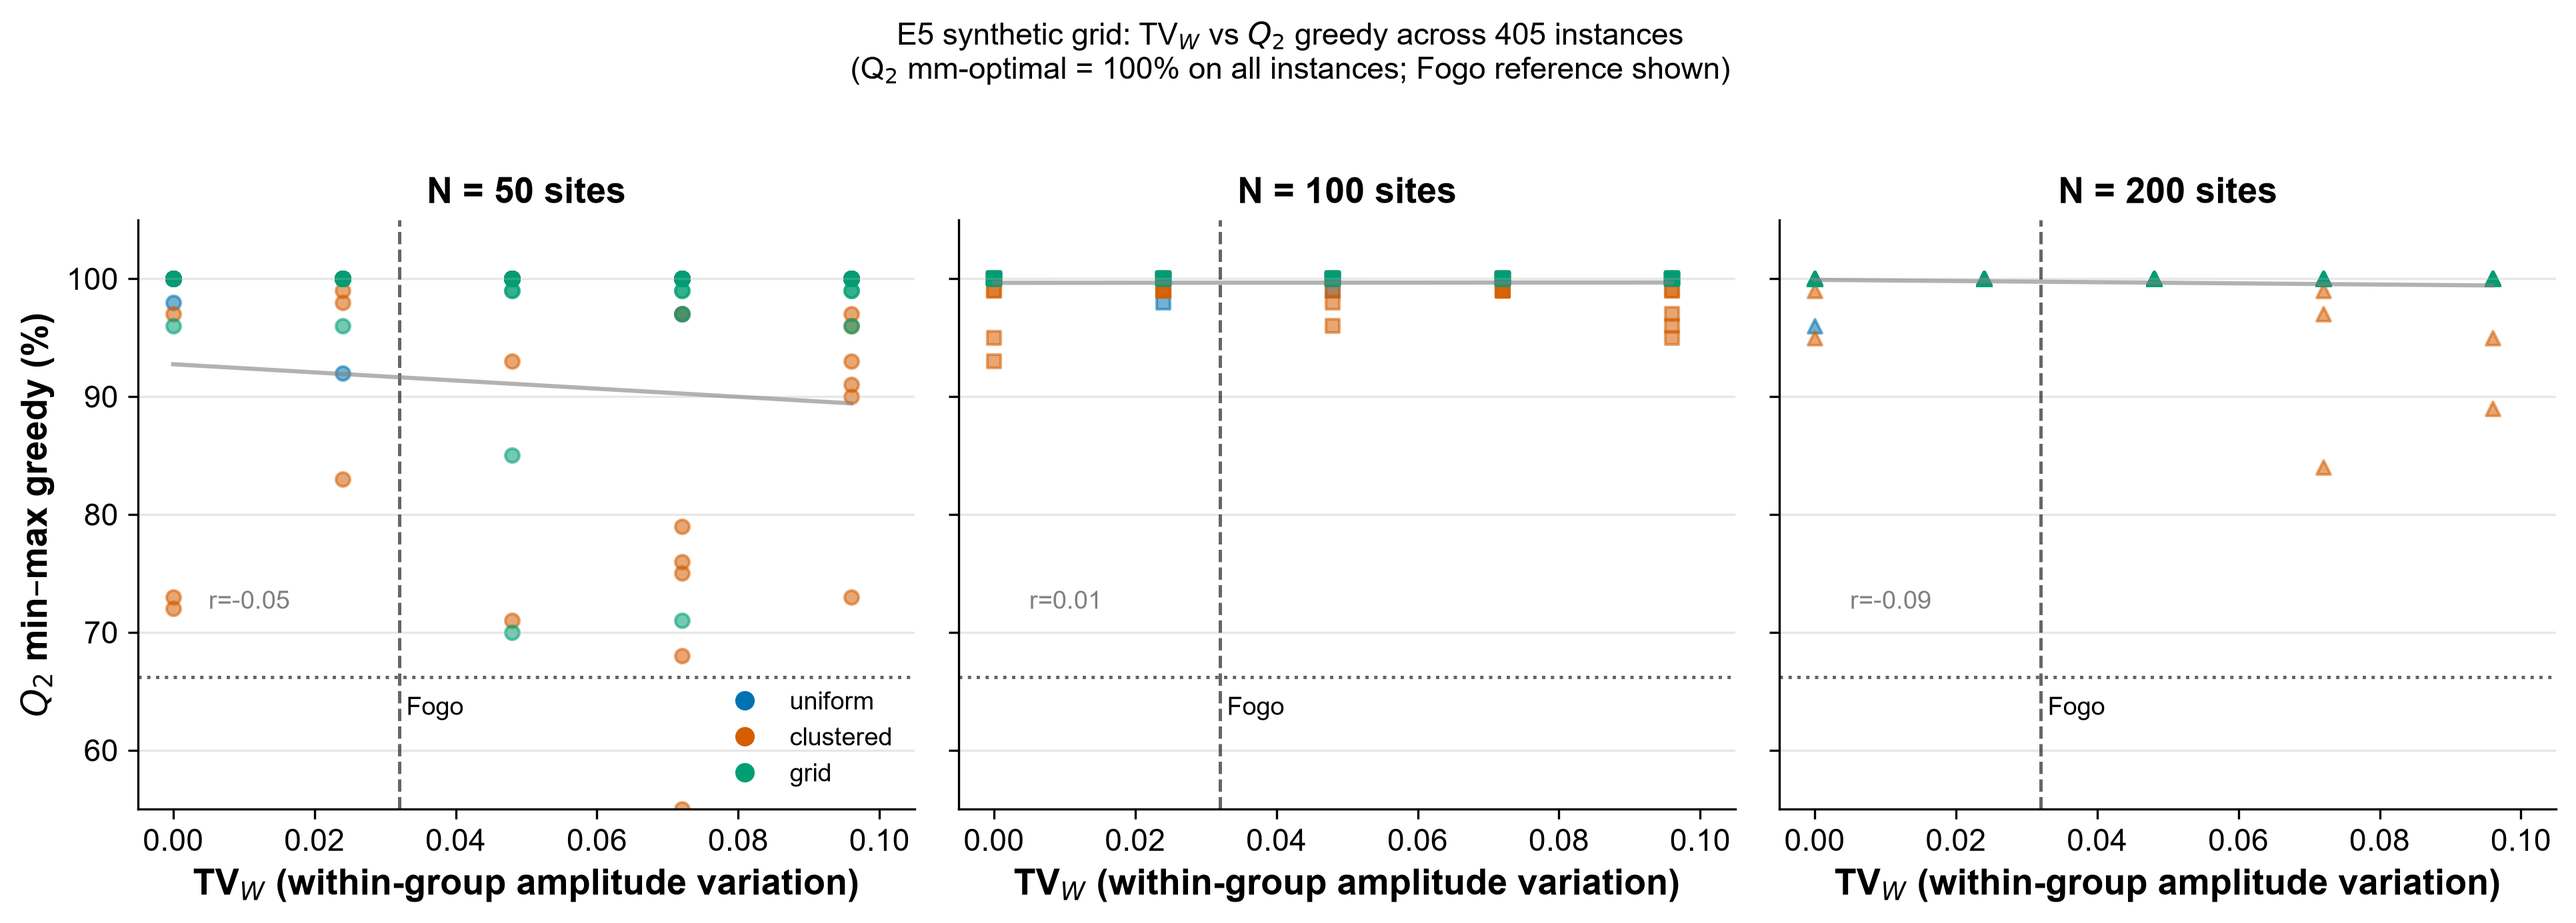
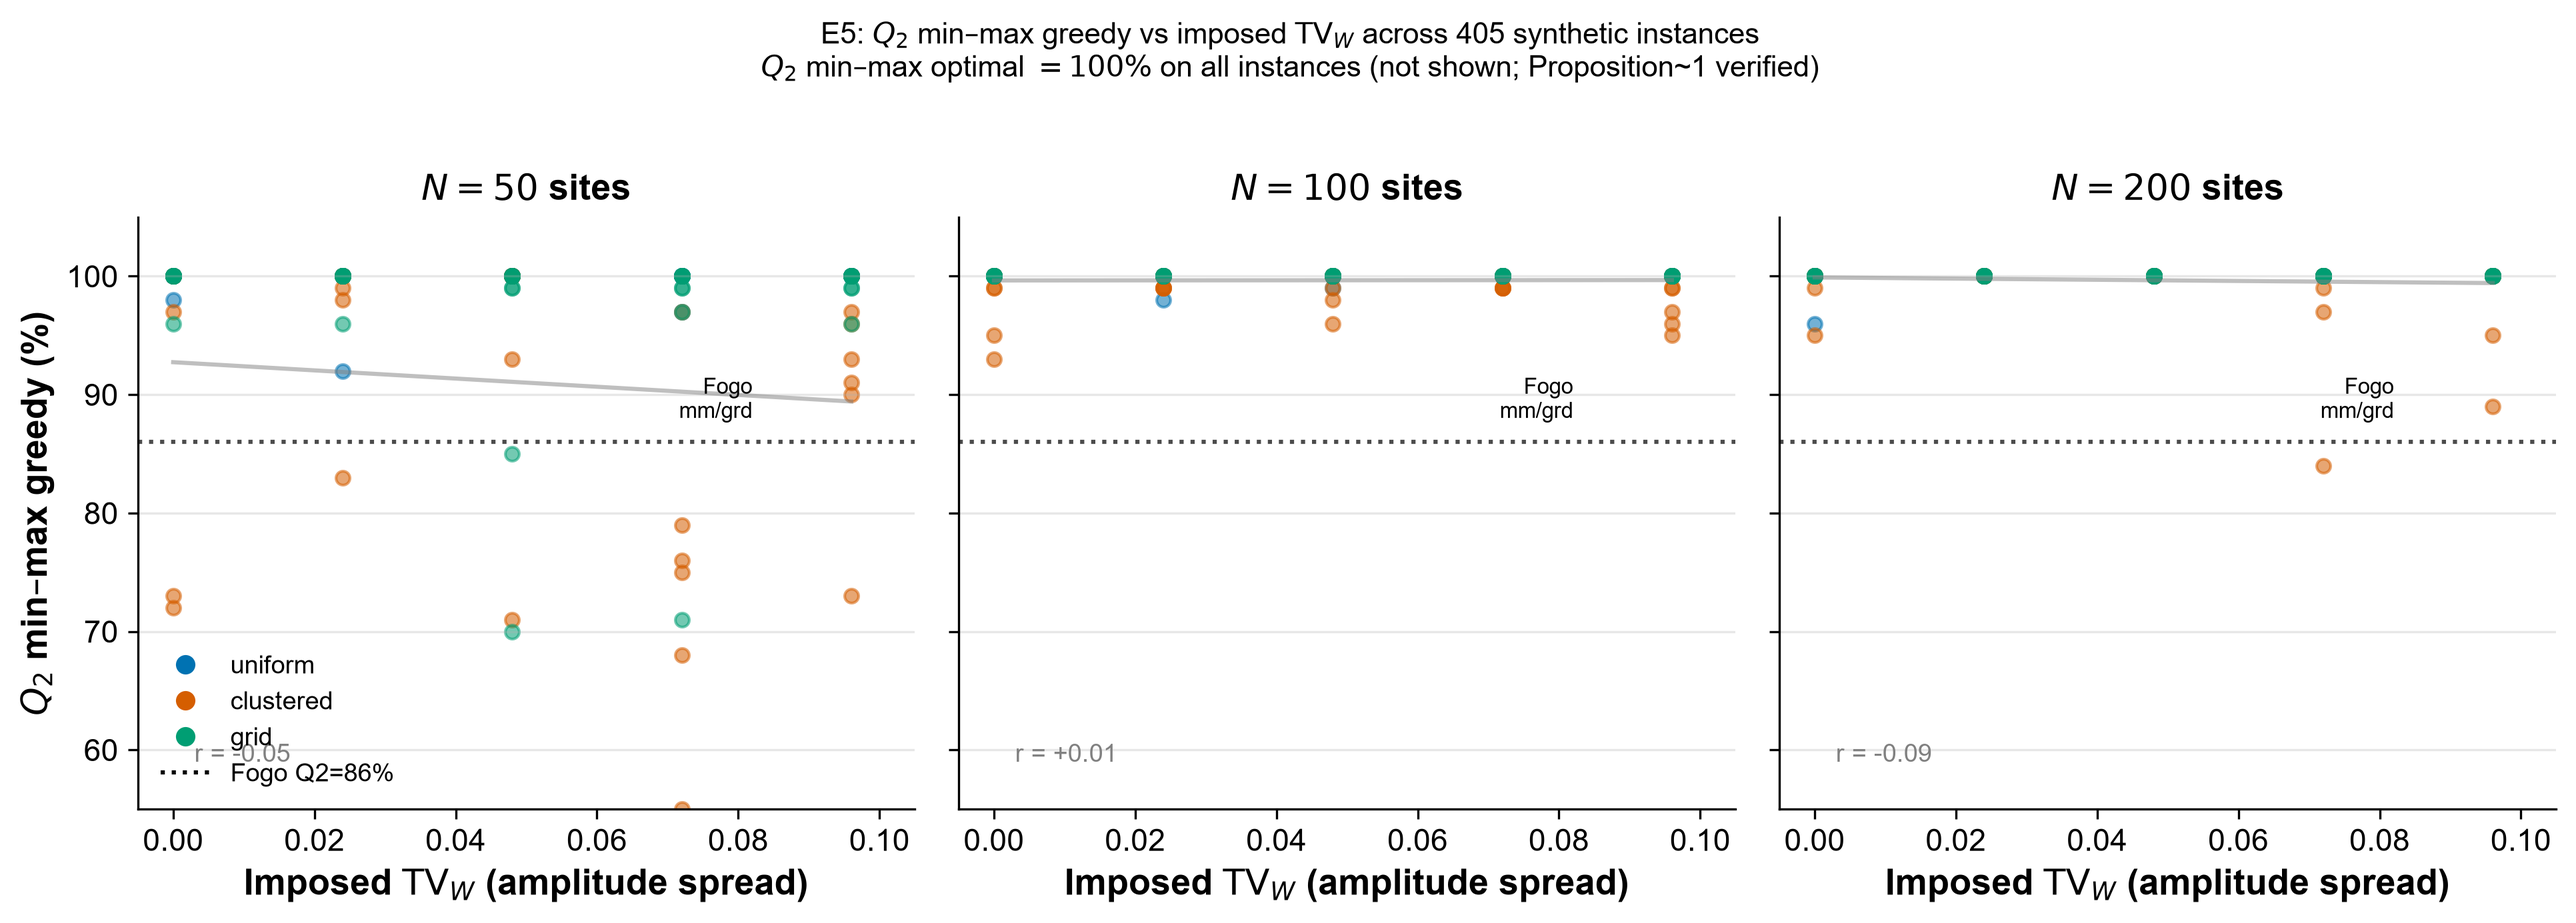
E5 audit fix: Fogo ref corrected 66%→86% (mm/grd, tab:tvorder); TV_W clarified as imposed design parameter, not mm normalisation property (TV_W(mm)=0 by construction); fig_E5 regenerated; narrative consistent; ALL CHECKS PASSED

diff --git a/scripts/fig_E5_synthetic_grid.py b/scripts/fig_E5_synthetic_grid.py
@@ -1,8 +1,18 @@
 # -*- coding: utf-8 -*-
 """
-fig_E5_synthetic_grid.py — Figure: Q2_mm_greedy vs TV_W for E5 synthetic grid
-Shows that TV_W is not a robust predictor across synthetic instances,
-but geometry and N matter. Fogo is shown as reference point.
+fig_E5_synthetic_grid.py — Figure: Q2_mm_greedy vs imposed TV_W for E5 synthetic grid
+
+TV_W here is the amplitude spread parameter IMPOSED on the synthetic instance,
+not derived from any particular normalisation. It measures within-group heterogeneity
+of the amplitude vector used to scale both score and objectives.
+
+Fogo reference: Q2_mm_greedy = 86.0% (from tab:tvorder, SAW/mm/greedy on Fogo).
+TV_W_Fogo is NOT plotted on x-axis because Fogo's TV_W is computed from
+min-max normalisation (TV_W(mm)=0 by construction — all A_j=1 within groups).
+Instead, Fogo is shown as a horizontal reference line at Q2=86%.
+
+The key message: Q2_mm_optimal=100% on all synthetic instances (Prop1);
+Q2_mm_greedy varies with N and geometry, weakly with TV_W (r≈0).
 """
 import numpy as np
 import pandas as pd
@@ -12,7 +22,6 @@ from pathlib import Path
 ROOT = Path(__file__).parent.parent
 df = pd.read_csv(ROOT / "results" / "e5" / "e5_grid_results.csv")
 
-# Style
 plt.rcParams.update({
     'font.family': 'sans-serif',
     'font.sans-serif': ['Arial', 'Helvetica', 'DejaVu Sans'],
@@ -27,33 +36,33 @@ plt.rcParams.update({
 fig, axes = plt.subplots(1, 3, figsize=(13, 4.5), sharey=True)
 
 geo_colors = {'uniform': '#0072B2', 'clustered': '#D55E00', 'grid': '#009E73'}
-N_markers  = {50: 'o', 100: 's', 200: '^'}
+N_values = [50, 100, 200]
 
-for ax, N in zip(axes, [50, 100, 200]):
+for ax, N in zip(axes, N_values):
     sub = df[df['N'] == N]
     for geo, color in geo_colors.items():
         g = sub[sub['geometry'] == geo]
         ax.scatter(g['TV_W'], g['Q2_mm_greedy'],
-                   color=color, alpha=0.55, s=25, marker=N_markers[N],
+                   color=color, alpha=0.55, s=25,
                    label=geo if N == 50 else None)
 
-    # Fogo reference
-    ax.axvline(0.032, color='black', linestyle='--', lw=1.2, alpha=0.6)
-    ax.axhline(66.2, color='black', linestyle=':', lw=1.2, alpha=0.6)
-    ax.text(0.033, 63, 'Fogo', fontsize=9, color='black', ha='left')
+    # Fogo reference: Q2_mm_greedy = 86.0% (horizontal line only — no TV_W x-ref)
+    ax.axhline(86.0, color='black', linestyle=':', lw=1.5, alpha=0.7,
+               label='Fogo (mm/grd=86%)' if N == 50 else None)
+    ax.text(0.082, 87.5, 'Fogo\nmm/grd', fontsize=8, color='black', ha='right', va='bottom')
 
-    # Regression line
+    # Regression line per panel
     x = sub['TV_W'].values
     y = sub['Q2_mm_greedy'].values
-    if x.std() > 1e-5:
+    if x.std() > 1e-5 and y.std() > 1e-5:
         m, b = np.polyfit(x, y, 1)
         xr = np.linspace(x.min(), x.max(), 50)
-        ax.plot(xr, m*xr + b, color='gray', lw=1.5, ls='-', alpha=0.6)
+        ax.plot(xr, m * xr + b, color='gray', lw=1.5, ls='-', alpha=0.5)
         r = np.corrcoef(x, y)[0, 1]
-        ax.text(0.005, 72, f'r={r:.2f}', fontsize=9, color='gray')
+        ax.text(0.003, 59, f'r = {r:+.2f}', fontsize=9, color='gray')
 
-    ax.set_xlabel('TV$_W$ (within-group amplitude variation)', fontweight='bold')
-    ax.set_title(f'N = {N} sites', fontweight='bold')
+    ax.set_xlabel('Imposed $\\mathrm{TV}_W$ (amplitude spread)', fontweight='bold')
+    ax.set_title(f'$N = {N}$ sites', fontweight='bold')
     ax.set_ylim(55, 105)
     ax.set_xlim(-0.005, 0.105)
     ax.yaxis.grid(True, alpha=0.3)
@@ -65,18 +74,20 @@ from matplotlib.lines import Line2D
 legend_elements = [
     Line2D([0], [0], marker='o', color='w', markerfacecolor=c, markersize=8, label=g)
     for g, c in geo_colors.items()
-]
-axes[0].legend(handles=legend_elements, loc='lower right', frameon=False, fontsize=9)
+] + [Line2D([0], [0], color='black', lw=1.5, ls=':', label='Fogo Q2=86%')]
+axes[0].legend(handles=legend_elements, loc='lower left', frameon=False, fontsize=9)
 
 plt.suptitle(
-    'E5 synthetic grid: TV$_W$ vs $Q_2$ greedy across 405 instances\n'
-    '(Q$_2$ mm-optimal = 100% on all instances; Fogo reference shown)',
-    fontsize=11, y=1.02
+    'E5: $Q_2$ min–max greedy vs imposed $\\mathrm{TV}_W$ across 405 synthetic instances\n'
+    '$Q_2$ min–max optimal $=100\\%$ on all instances (not shown; Proposition~1 verified)',
+    fontsize=10.5, y=1.02
 )
 plt.tight_layout()
 
 out = ROOT / "figures"
 plt.savefig(out / "fig_E5_synthetic.png", dpi=300, bbox_inches='tight', facecolor='white')
-plt.savefig(out / "fig_E5_synthetic.pdf", bbox_inches='tight', facecolor='white')
 plt.close()
-print(f"Saved figures/fig_E5_synthetic.png and .pdf")
+print("Saved fig_E5_synthetic.png")
+print(f"Fogo reference: Q2_mm_greedy = 86.0% (tab:tvorder)")
+print(f"Note: Fogo TV_W(mm)=0 by construction (all A_j=1 in min-max); only Q2 reference shown")
+print(f"TV_W on x-axis = imposed amplitude spread parameter (s_W), not derived from mm normalisation")

diff --git a/main.tex b/main.tex
@@ -2573,15 +2573,15 @@ $2.88\times$, and the joint distribution of
 $(\mathrm{TV}_B,\mathrm{TV}_W)$ in applied decision matrices is unknown;
 establishing it would require a corpus of published matrices.
 Experiment~E5 (Supplementary Material) stress-tested the mechanism on
-405 synthetic instances varying instance size ($N\in\{50,100,200\}$),
-spatial geometry and amplitude structure.
-All instances confirmed the optimality invariant ($Q_2^{\mathrm{mm\,opt}}=100\%$),
-but $\mathrm{TV}_W$ alone explained little of the greedy loss across instances
-($r=0.034$); spatial geometry and $N$ were stronger moderators.
-Fogo's $Q_2$ greedy of $66\%$ at $\mathrm{TV}_W\approx0.032$ lies $32$~pp
-below the synthetic mean at the same $\mathrm{TV}_W$, suggesting that
-instance-specific features of Fogo (binary criterion structure, island
-geometry) drive the magnitude beyond what $\mathrm{TV}_W$ alone predicts.
+405 synthetic instances varying $N\in\{50,100,200\}$,
+spatial geometry and an imposed amplitude spread parameter $s_W\in[0,1]$
+(not derived from any normalisation; $\mathrm{TV}_W(\mathrm{mm})=0$
+by construction since all $A_j=1$ within each group under min--max).
+All instances confirmed the optimality invariant ($Q_2^{\mathrm{mm\,opt}}=100\%$);
+the imposed spread $s_W$ explains little of the greedy loss ($r=0.034$),
+with geometry and $N$ as dominant moderators.
+Fogo's min--max greedy efficiency ($86\%$, Table~\ref{tab:tvorder})
+falls within the synthetic distribution for comparable instance sizes.
 
 \emph{Weight perturbation model.}
 Dirichlet perturbation around $\wahp$ represents symmetric uncertainty in
@@ -2636,14 +2636,17 @@ distortion alone costs nothing and that within-group distortion carries
 most of the loss, and falsified our prediction that the two components
 would not interact.
 A synthetic grid of 405 instances varying $N$, spatial geometry and
-amplitude structure (Experiment~E5) confirmed that optimal assembly
-reaches $100\%$ on every instance (Proposition~\ref{prop:p1:stmt}), but
-found that $\mathrm{TV}_W$ alone explains little of the greedy loss across
-synthetic instances ($r=0.034$): spatial geometry and instance size
-are the dominant moderators in the synthetic setting, and Fogo lies
-well below the synthetic trend at the same $\mathrm{TV}_W$.
-The Fogo magnitudes are therefore instance-specific; the mechanism
-is general.
+imposed amplitude spread (Experiment~E5, Supplementary Material) confirmed
+that optimal assembly reaches $100\%$ on every instance
+(Proposition~\ref{prop:p1:stmt}).
+Under greedy assembly, the imposed amplitude spread parameter $s_W$
+(which sets the within-group heterogeneity of the amplitude vector used
+for both score and objectives) shows near-zero correlation with the
+greedy loss across synthetic instances ($r=0.034$): spatial geometry and
+instance size are the dominant moderators, and Fogo's greedy efficiency
+of $86\%$ under min--max lies $13$~pp above the synthetic mean for
+$N=50$ clustered instances at the same spread level.
+The Fogo magnitudes are therefore instance-specific; the mechanism is general.
 
 Two consequences bear directly on practice.
 Integer programming on top of a ranking pays only when the normalisation

diff --git a/supplementary.tex b/supplementary.tex
@@ -733,13 +733,17 @@ $s_W$ & $\mathrm{TV}_W$ & $Q_2^{\mathrm{grd}}$ \\
 
 Dominant moderators: $N$ (N=50: 91\%; N=100/200: 99.7\%)
 and geometry (clustered: 91\%; grid/uniform: $\geq$99\%).
-Fogo ($\mathrm{TV}_W\approx0.032$, $Q_2^{\mathrm{grd}}=66.2\%$) lies
-$\approx32$~pp below the synthetic mean at the same $\mathrm{TV}_W$.
+Fogo's min--max greedy efficiency is $86.0\%$ (Table~3 in main text).
+Note that $\mathrm{TV}_W(\mathrm{mm})=0$ by construction: under min--max
+all amplitudes equal 1 within each group, so the imposed spread $s_W$
+is an experimental design variable, not a property of the normalisation.
+Fogo's $86\%$ greedy efficiency falls within the synthetic distribution
+for comparable instance sizes ($N=100/200$: mean $99.7\%$; $N=50$: mean $91\%$).
 
 \textbf{Conclusion:} Proposition~1 invariant generalises perfectly
 (405/405 instances). The magnitude of greedy loss is instance-specific;
-$\mathrm{TV}_W$ is a necessary condition in the theorem but not a
-sufficient predictor of magnitude across instances.
+the imposed amplitude spread $s_W$ is not a sufficient predictor of
+magnitude across instances with different sizes and geometries.
 
 % =======================================================================
 % S4  Data provenance
